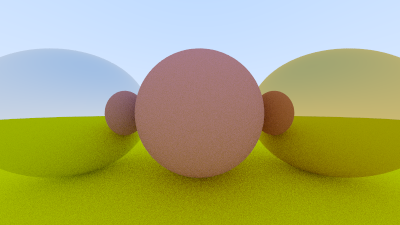
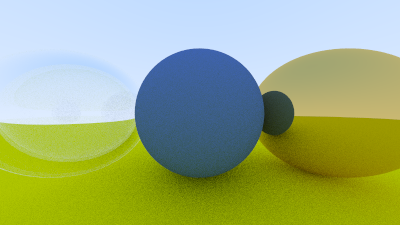
Glass material

diff --git a/src/materials.rs b/src/materials.rs
@@ -1,6 +1,7 @@
 use crate::{
     hittable::HitRecord,
     ray::Ray,
+    utils::random,
     vec3::{Color, Vec3},
 };
 
@@ -38,11 +39,12 @@ impl Material for Lambertian {
 #[derive(Clone, Default)]
 pub struct Metal {
     pub albedo: Color,
+    pub fuzz: f32,
 }
 
 impl Metal {
-    pub fn new(albedo: Color) -> Self {
-        Self { albedo }
+    pub fn new(albedo: Color, fuzz: f32) -> Self {
+        Self { albedo, fuzz }
     }
 }
 
@@ -50,8 +52,52 @@ impl Material for Metal {
     fn scatter(&self, r_in: &Ray, rec: &HitRecord) -> (bool, Color, Ray) {
         let reflected = Vec3::reflect(&Vec3::unit_vector(r_in.direction), &rec.normal);
 
-        let scattered = Vec3::dot(&reflected, &rec.normal) > 0.0;
+        let scattered = Ray::new(rec.p, reflected + self.fuzz * Vec3::random_in_unit_sphere());
+        let is_scattered = Vec3::dot(&reflected, &rec.normal) > 0.0;
 
-        (scattered, self.albedo, Ray::new(rec.p, reflected))
+        (is_scattered, self.albedo, scattered)
     }
+}
+
+#[derive(Clone, Default)]
+pub struct Dielectric {
+    pub ir: f32,
+}
+
+impl Dielectric {
+    pub fn new(ir: f32) -> Self {
+        Self { ir }
+    }
+}
+
+impl Material for Dielectric {
+    fn scatter(&self, r_in: &Ray, rec: &HitRecord) -> (bool, Color, Ray) {
+        let refraction_ratio = if rec.front_face {
+            1.0 / self.ir
+        } else {
+            self.ir
+        };
+
+        let unit_direction = Vec3::unit_vector(r_in.direction);
+        let cos_theta = f32::min(Vec3::dot(&-unit_direction, &rec.normal), 1.0);
+        let sin_theta = f32::sqrt(1.0 - cos_theta * cos_theta);
+
+        let cannot_refract = refraction_ratio * sin_theta > 1.0;
+        let direction = if cannot_refract || reflectance(cos_theta, refraction_ratio) > random() {
+            Vec3::reflect(&unit_direction, &rec.normal)
+        } else {
+            Vec3::refract(&unit_direction, &rec.normal, refraction_ratio)
+        };
+
+        let scattered = Ray::new(rec.p, direction);
+
+        (true, Color::from(1.0), scattered)
+    }
+}
+
+fn reflectance(cosine: f32, ref_idx: f32) -> f32 {
+    // Use Schlick's approximation for reflectance.
+    let mut r0 = (1.0 - ref_idx) / (1.0 + ref_idx);
+    r0 = r0 * r0;
+    r0 + (1.0 - r0) * f32::powi(1.0 - cosine, 5)
 }

diff --git a/src/main.rs b/src/main.rs
@@ -5,7 +5,7 @@ use utils::INFINITY;
 
 use crate::camera::Camera;
 use crate::hittable_list::HittableList;
-use crate::materials::{Lambertian, Metal};
+use crate::materials::{Lambertian, Metal, Dielectric};
 use crate::objects::Sphere;
 use crate::output_buffer::OutputBuffer;
 use crate::ray::Ray;
@@ -33,9 +33,9 @@ fn main() {
     let mut world = HittableList::new();
 
     let material_ground = Lambertian::new(Color::new(0.8, 0.8, 0.0));
-    let material_center = Lambertian::new(Color::new(0.7, 0.3, 0.3));
-    let material_left = Metal::new(Color::new(0.8, 0.8, 0.8));
-    let material_right = Metal::new(Color::new(0.8, 0.6, 0.2));
+    let material_center = Lambertian::new(Color::new(0.1, 0.2, 0.5));
+    let material_left = Dielectric::new(1.5);
+    let material_right = Metal::new(Color::new(0.8, 0.6, 0.2), 0.0);
 
     // Ground
     world.add(Box::new(Sphere::new(
@@ -53,6 +53,12 @@ fn main() {
     world.add(Box::new(Sphere::new(
         Point3::new(-1.0, 0.0, -1.0),
         0.5,
+        material_left.clone(),
+    )));
+    // Left inner sphere
+    world.add(Box::new(Sphere::new(
+        Point3::new(-1.0, 0.0, -1.0),
+        -0.4,
         material_left.clone(),
     )));
     // Right sphere

diff --git a/src/vec3.rs b/src/vec3.rs
@@ -92,6 +92,14 @@ impl Vec3 {
     pub fn reflect(v: &Vec3, n: &Vec3) -> Vec3 {
         *v - 2.0 * Vec3::dot(v, n) * *n
     }
+
+    pub fn refract(uv: &Vec3, n: &Vec3, etai_over_etat: f32) -> Vec3 {
+        let cos_theta = f32::min(Vec3::dot(&-*uv, n), 1.0);
+        let r_out_perp = etai_over_etat * (*uv + cos_theta * *n);
+        let r_out_parallel = -f32::sqrt(f32::abs(1.0 - r_out_perp.length_squared())) * *n;
+
+        r_out_perp + r_out_parallel
+    }
 }
 
 // -vec
